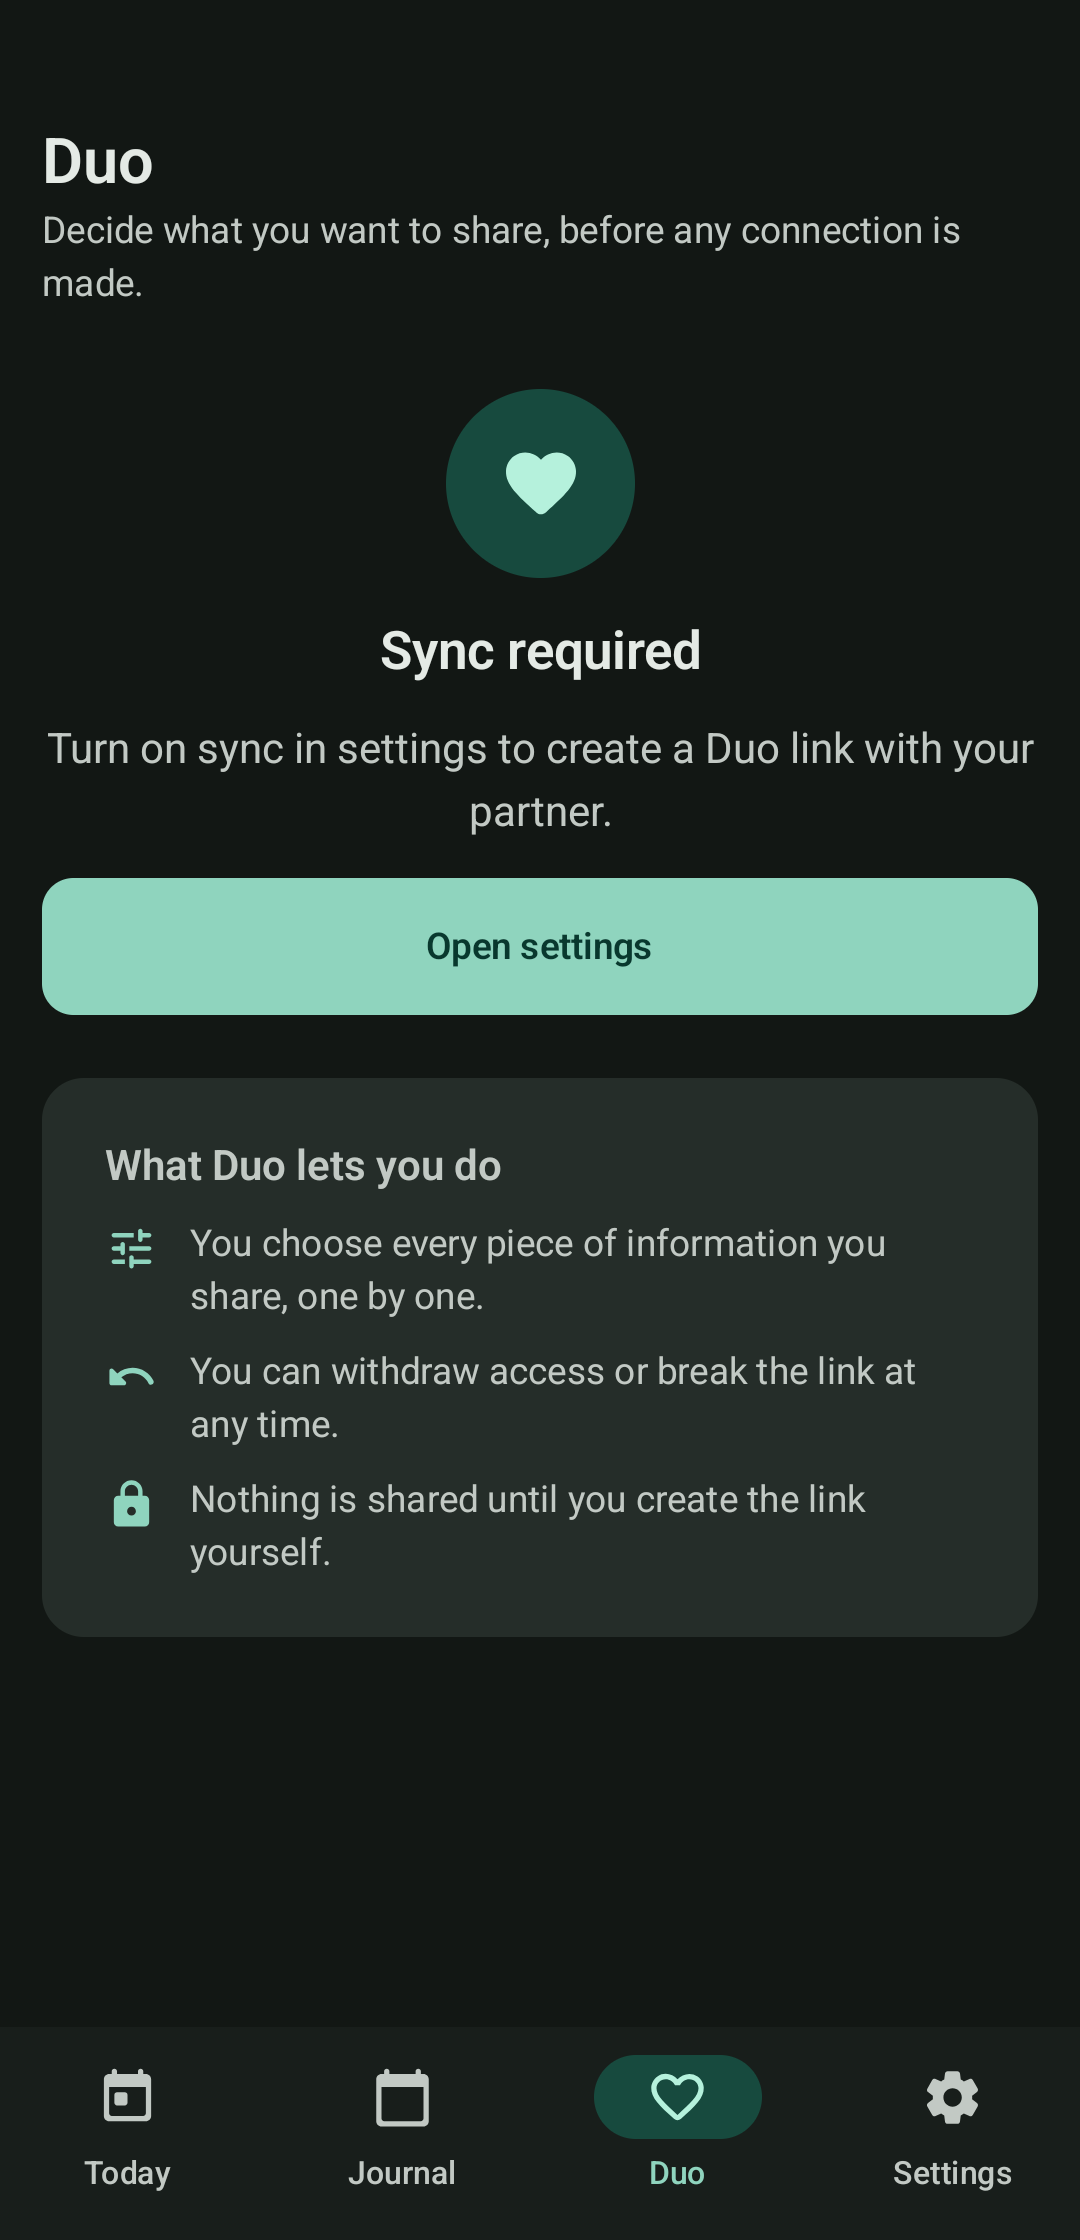
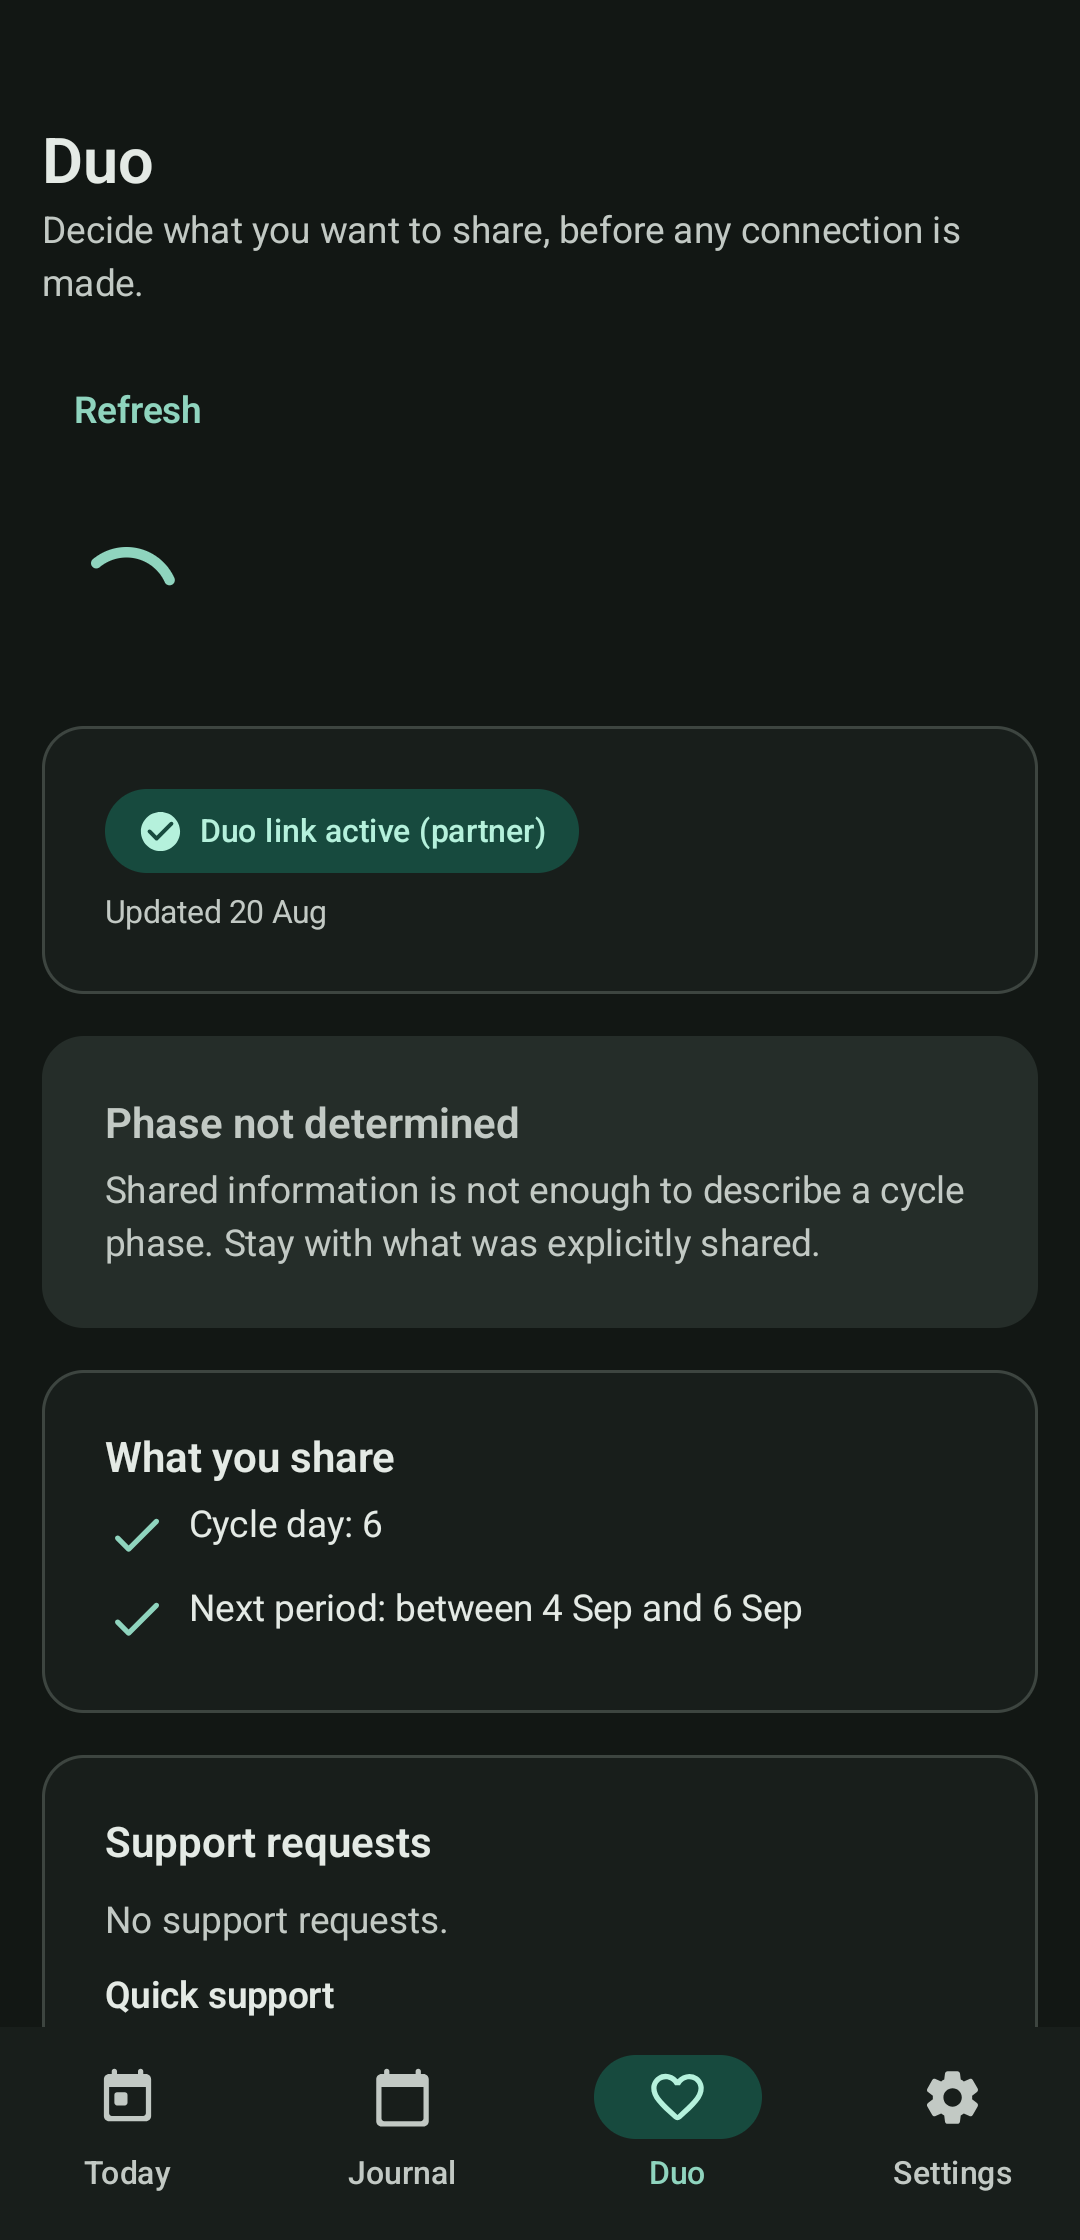
feat: seed duo partner projection in test data and update fastlane duo screenshots

diff --git a/app/src/main/java/fr/luteal/core/data/seed/TestDataSeeder.kt b/app/src/main/java/fr/luteal/core/data/seed/TestDataSeeder.kt
@@ -3,12 +3,22 @@ package fr.luteal.core.data.seed
 import fr.luteal.core.data.entity.BiomarkerObservationEntity
 import fr.luteal.core.data.entity.CycleEntity
 import fr.luteal.core.data.entity.DailyEntryEntity
+import fr.luteal.core.data.entity.DuoWidgetCacheEntity
 import fr.luteal.core.data.entity.SymptomLogEntity
+import fr.luteal.core.data.entity.UserProfileEntity
 import fr.luteal.core.data.local.BiomarkerDao
 import fr.luteal.core.data.local.CycleDao
 import fr.luteal.core.data.local.DailyEntryDao
+import fr.luteal.core.data.local.DuoWidgetCacheDao
 import fr.luteal.core.data.local.SymptomDao
 import fr.luteal.core.data.local.SyncStateDao
+import fr.luteal.core.data.local.UserProfileDao
+import fr.luteal.core.data.datastore.UserPreferencesDataStore
+import fr.luteal.core.model.SyncMode
+import fr.luteal.core.model.UserRole
+import fr.luteal.core.network.auth.SyncCredentialStore
+import fr.luteal.core.network.auth.SyncCredentials
+import fr.luteal.core.network.crypto.DuoKeyStore
 import fr.luteal.core.model.BleedingIntensity
 import fr.luteal.core.model.PeriodDay
 import java.time.LocalDate
@@ -30,7 +40,12 @@ class TestDataSeederImpl @Inject constructor(
     private val dailyEntryDao: DailyEntryDao,
     private val symptomDao: SymptomDao,
     private val biomarkerDao: BiomarkerDao,
-    private val syncStateDao: SyncStateDao
+    private val syncStateDao: SyncStateDao,
+    private val duoWidgetCacheDao: DuoWidgetCacheDao,
+    private val userProfileDao: UserProfileDao,
+    private val userPreferencesDataStore: UserPreferencesDataStore,
+    private val syncCredentialStore: SyncCredentialStore,
+    private val duoKeyStore: DuoKeyStore
 ) : TestDataSeeder {
 
     override suspend fun clearAllData() {
@@ -39,12 +54,25 @@ class TestDataSeederImpl @Inject constructor(
         symptomDao.deleteAllSymptomLogs()
         biomarkerDao.deleteAll()
         syncStateDao.deleteAll()
+        duoWidgetCacheDao.clear()
+        runCatching { syncCredentialStore.clear() }
+        runCatching { duoKeyStore.clear() }
     }
 
     override suspend fun seedMockData(anchorDate: LocalDate) {
         clearAllData()
 
         val nowEpoch = anchorDate.atStartOfDay(ZoneOffset.UTC).toInstant().toEpochMilli()
+
+        userPreferencesDataStore.setSyncMode(SyncMode.ONLINE_CLOUD.name)
+        userProfileDao.insertOrUpdateUserProfile(
+            UserProfileEntity(
+                userId = "primary",
+                role = UserRole.PRIMARY_TRACKER.name,
+                syncMode = SyncMode.ONLINE_CLOUD.name,
+                isPaired = true
+            )
+        )
 
         // Cycle 1: 58 days ago to 31 days ago (28 days)
         val cycle1Start = anchorDate.minusDays(58)
@@ -271,6 +299,30 @@ class TestDataSeederImpl @Inject constructor(
         for (bm in biomarkerEntries) {
             biomarkerDao.upsert(bm)
         }
+
+        // Duo partner cached projection
+        val linkId = UUID.randomUUID().toString()
+        duoWidgetCacheDao.upsert(
+            DuoWidgetCacheEntity(
+                linkId = linkId,
+                role = "PARTNER",
+                cycleDay = 6,
+                estimateStart = anchorDate.plusDays(15).toString(),
+                estimateEnd = anchorDate.plusDays(17).toString(),
+                cycleDayGranted = true,
+                estimateGranted = true,
+                status = "ACTIVE",
+                refreshedAtEpochMillis = nowEpoch
+            )
+        )
+        syncCredentialStore.save(
+            SyncCredentials(
+                accountId = "demo-account-id",
+                accountCode = "LTL-DEMO-XXXXX-XXXXX",
+                deviceToken = "demo-device-token"
+            )
+        )
+        duoKeyStore.save(linkId, ByteArray(32) { 0x42 })
     }
 
     private fun List<PeriodDay>.toJson(): String {

diff --git a/app/src/main/java/fr/luteal/app/navigation/DuoViewModel.kt b/app/src/main/java/fr/luteal/app/navigation/DuoViewModel.kt
@@ -77,15 +77,21 @@ class DuoViewModel @Inject constructor(
     // instead; see the LaunchedEffect there.
 
     fun refresh() {
-        if (!duoRepository.hasAccount()) {
-            _uiState.update { it.copy(phase = DuoPhase.NoAccount, isLoading = false) }
-            return
-        }
         viewModelScope.launch {
-            _uiState.update { it.copy(isLoading = true, error = null) }
-            // Show the last confirmed grants while the network round trip runs;
-            // a cold start must not fall back to "everything off".
+            val cached = widgetCacheRepository.getLatest()
+            if (!duoRepository.hasAccount() && cached == null) {
+                _uiState.update { it.copy(phase = DuoPhase.NoAccount, isLoading = false) }
+                return@launch
+            }
+
+            // Show cached projection immediately so offline and demo data render instantly
+            applyCachedProjection()
             seedGrantsFromCache()
+
+            if (!duoRepository.hasAccount()) {
+                return@launch
+            }
+            _uiState.update { it.copy(isLoading = true, error = null) }
             runCatching { duoRepository.duoView() }
                 .onSuccess { view ->
                     val isTracker =
@@ -100,12 +106,13 @@ class DuoViewModel @Inject constructor(
                 }
                 .onFailure { err ->
                     val missingLink = err is fr.luteal.core.network.FolicularApiException && err.status == 404
-                    if (missingLink) {
+                    val cached = widgetCacheRepository.getLatest()
+                    if (missingLink && cached == null) {
                         _uiState.update { it.copy(isLoading = false) }
                         discoverLinks()
                     } else {
                         applyCachedProjection()
-                        _uiState.update { it.copy(isLoading = false, error = err.message) }
+                        _uiState.update { it.copy(isLoading = false, error = if (cached != null) null else err.message) }
                     }
                 }
         }
@@ -148,7 +155,12 @@ class DuoViewModel @Inject constructor(
                     }
                 }
                 .onFailure {
-                    _uiState.update { it.copy(phase = DuoPhase.NoLink) }
+                    val cached = widgetCacheRepository.getLatest()
+                    if (cached != null) {
+                        applyCachedProjection()
+                    } else {
+                        _uiState.update { it.copy(phase = DuoPhase.NoLink) }
+                    }
                 }
         }
     }
@@ -387,10 +399,10 @@ class DuoViewModel @Inject constructor(
         }
         _uiState.update {
             it.copy(
-                phase = if (cached.role.equals("PARTNER", ignoreCase = true)) {
-                    DuoPhase.PartnerActive
-                } else {
-                    it.phase
+                phase = when {
+                    cached.role.equals("PARTNER", ignoreCase = true) -> DuoPhase.PartnerActive
+                    cached.role.equals("TRACKER", ignoreCase = true) -> DuoPhase.TrackerActive
+                    else -> it.phase
                 },
                 projection = it.projection ?: projection,
                 lastRefreshedAt = cached.refreshedAt,
